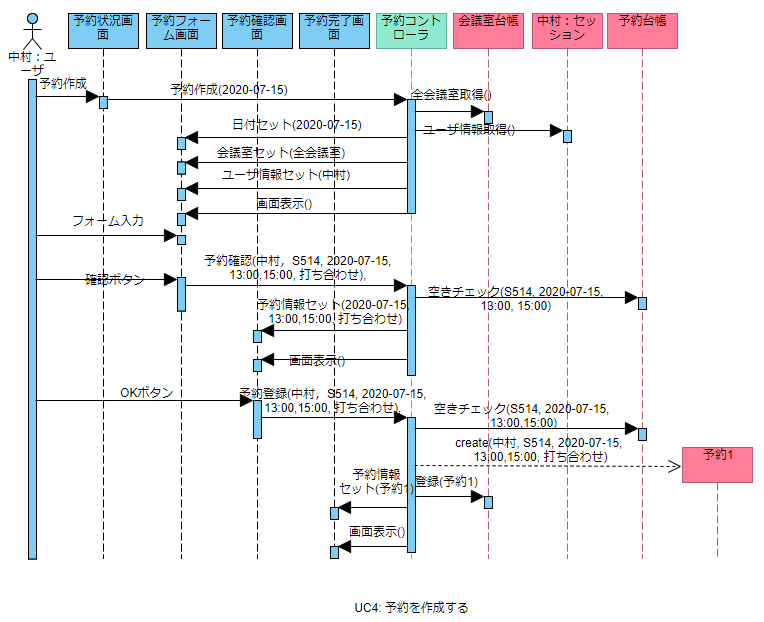
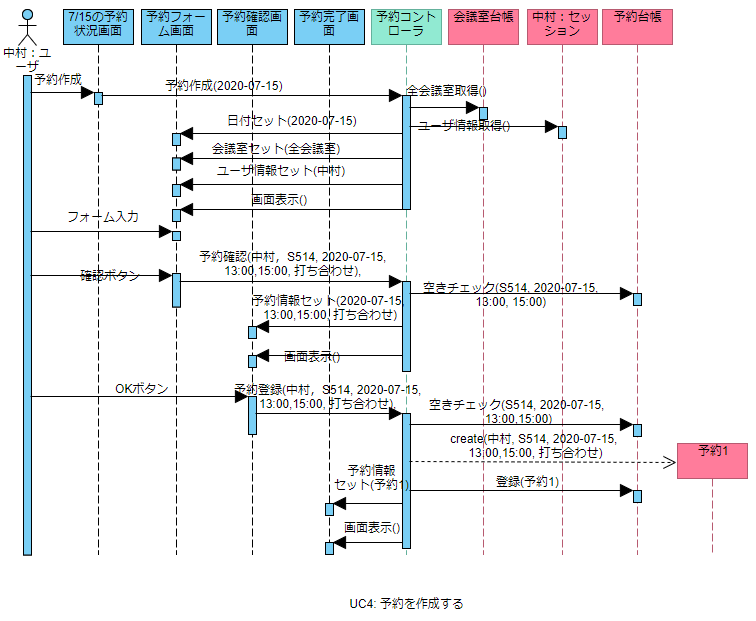
シーケンス図完了

diff --git a/MeetingRoomReservation/analysis/sequence_analysis.md b/MeetingRoomReservation/analysis/sequence_analysis.md
@@ -1,4 +1,4 @@
-# 会議室予約システム：ロバストネス分析
+# 会議室予約システム：シーケンス図
 
 [戻る](./README.md)
 
@@ -10,11 +10,15 @@
 
 <img src="img/robustness01.png">
 
+<img src="img/sequence01.png">
+
 
 ## 2. ログアウトする
 - [ユースケース記述](../usecase/usecase02.md)
 
 <img src="img/robustness02.png">
+
+<img src="img/sequence02.png">
 
 
 ## 3. カレンダーを見る
@@ -22,19 +26,28 @@
 
 <img src="img/robustness03.png">
 
+<img src="img/sequence03.png">
+
 ## 4. 予約を作成する
 - [ユースケース記述](../usecase/usecase04.md)
 
 <img src="img/robustness04.png">
+
+<img src="img/sequence04.png">
 
 ## 5. 予約を変更する
 - [ユースケース記述](../usecase/usecase05.md)
 
 <img src="img/robustness05.png">
 
+<img src="img/sequence05.png">
+
 
 ## 6. 予約をキャンセルする
 - [ユースケース記述](../usecase/usecase06.md)
 
 <img src="img/robustness06.png">
+
+<img src="img/sequence06.png">
+
 

diff --git a/MeetingRoomReservation/analysis/README.md b/MeetingRoomReservation/analysis/README.md
@@ -8,10 +8,39 @@
 ## 1. [モノ・コトを発見する](./domain_modeling.md)
 
 ## 2. [仕事を発見する](./robustness_analysis.md)
-
-
-
-## 3. 仕事を割り当てる
+## 3. [仕事を割り当てる](./sequence_analysis.md)
 
 ## 4. 成果物
+
+## ドメインモデル図
+
 <img src="img/domain_model.png">
+
+## 分析レベルのシーケンス図
+
+### UC1: ログインする
+
+<img src="img/sequence01.png">
+
+
+### UC2: ログアウトする
+
+<img src="img/sequence02.png">
+
+### UC3: カレンダーを見る
+
+<img src="img/sequence03.png">
+
+### UC4: 予約を作成する
+
+<img src="img/sequence04.png">
+
+### UC5: 予約を変更する
+
+<img src="img/sequence05.png">
+
+
+### UC6: 予約をキャンセルする
+
+<img src="img/sequence06.png">
+

diff --git a/MeetingRoomReservation/analysis/domain_modeling.md b/MeetingRoomReservation/analysis/domain_modeling.md
@@ -1,5 +1,7 @@
 # 会議室予約システム：ドメインモデリング
 
+[戻る](./README.md)
+
 ## モノ・コトを発見する
 ### クラス，属性
 - 予約
